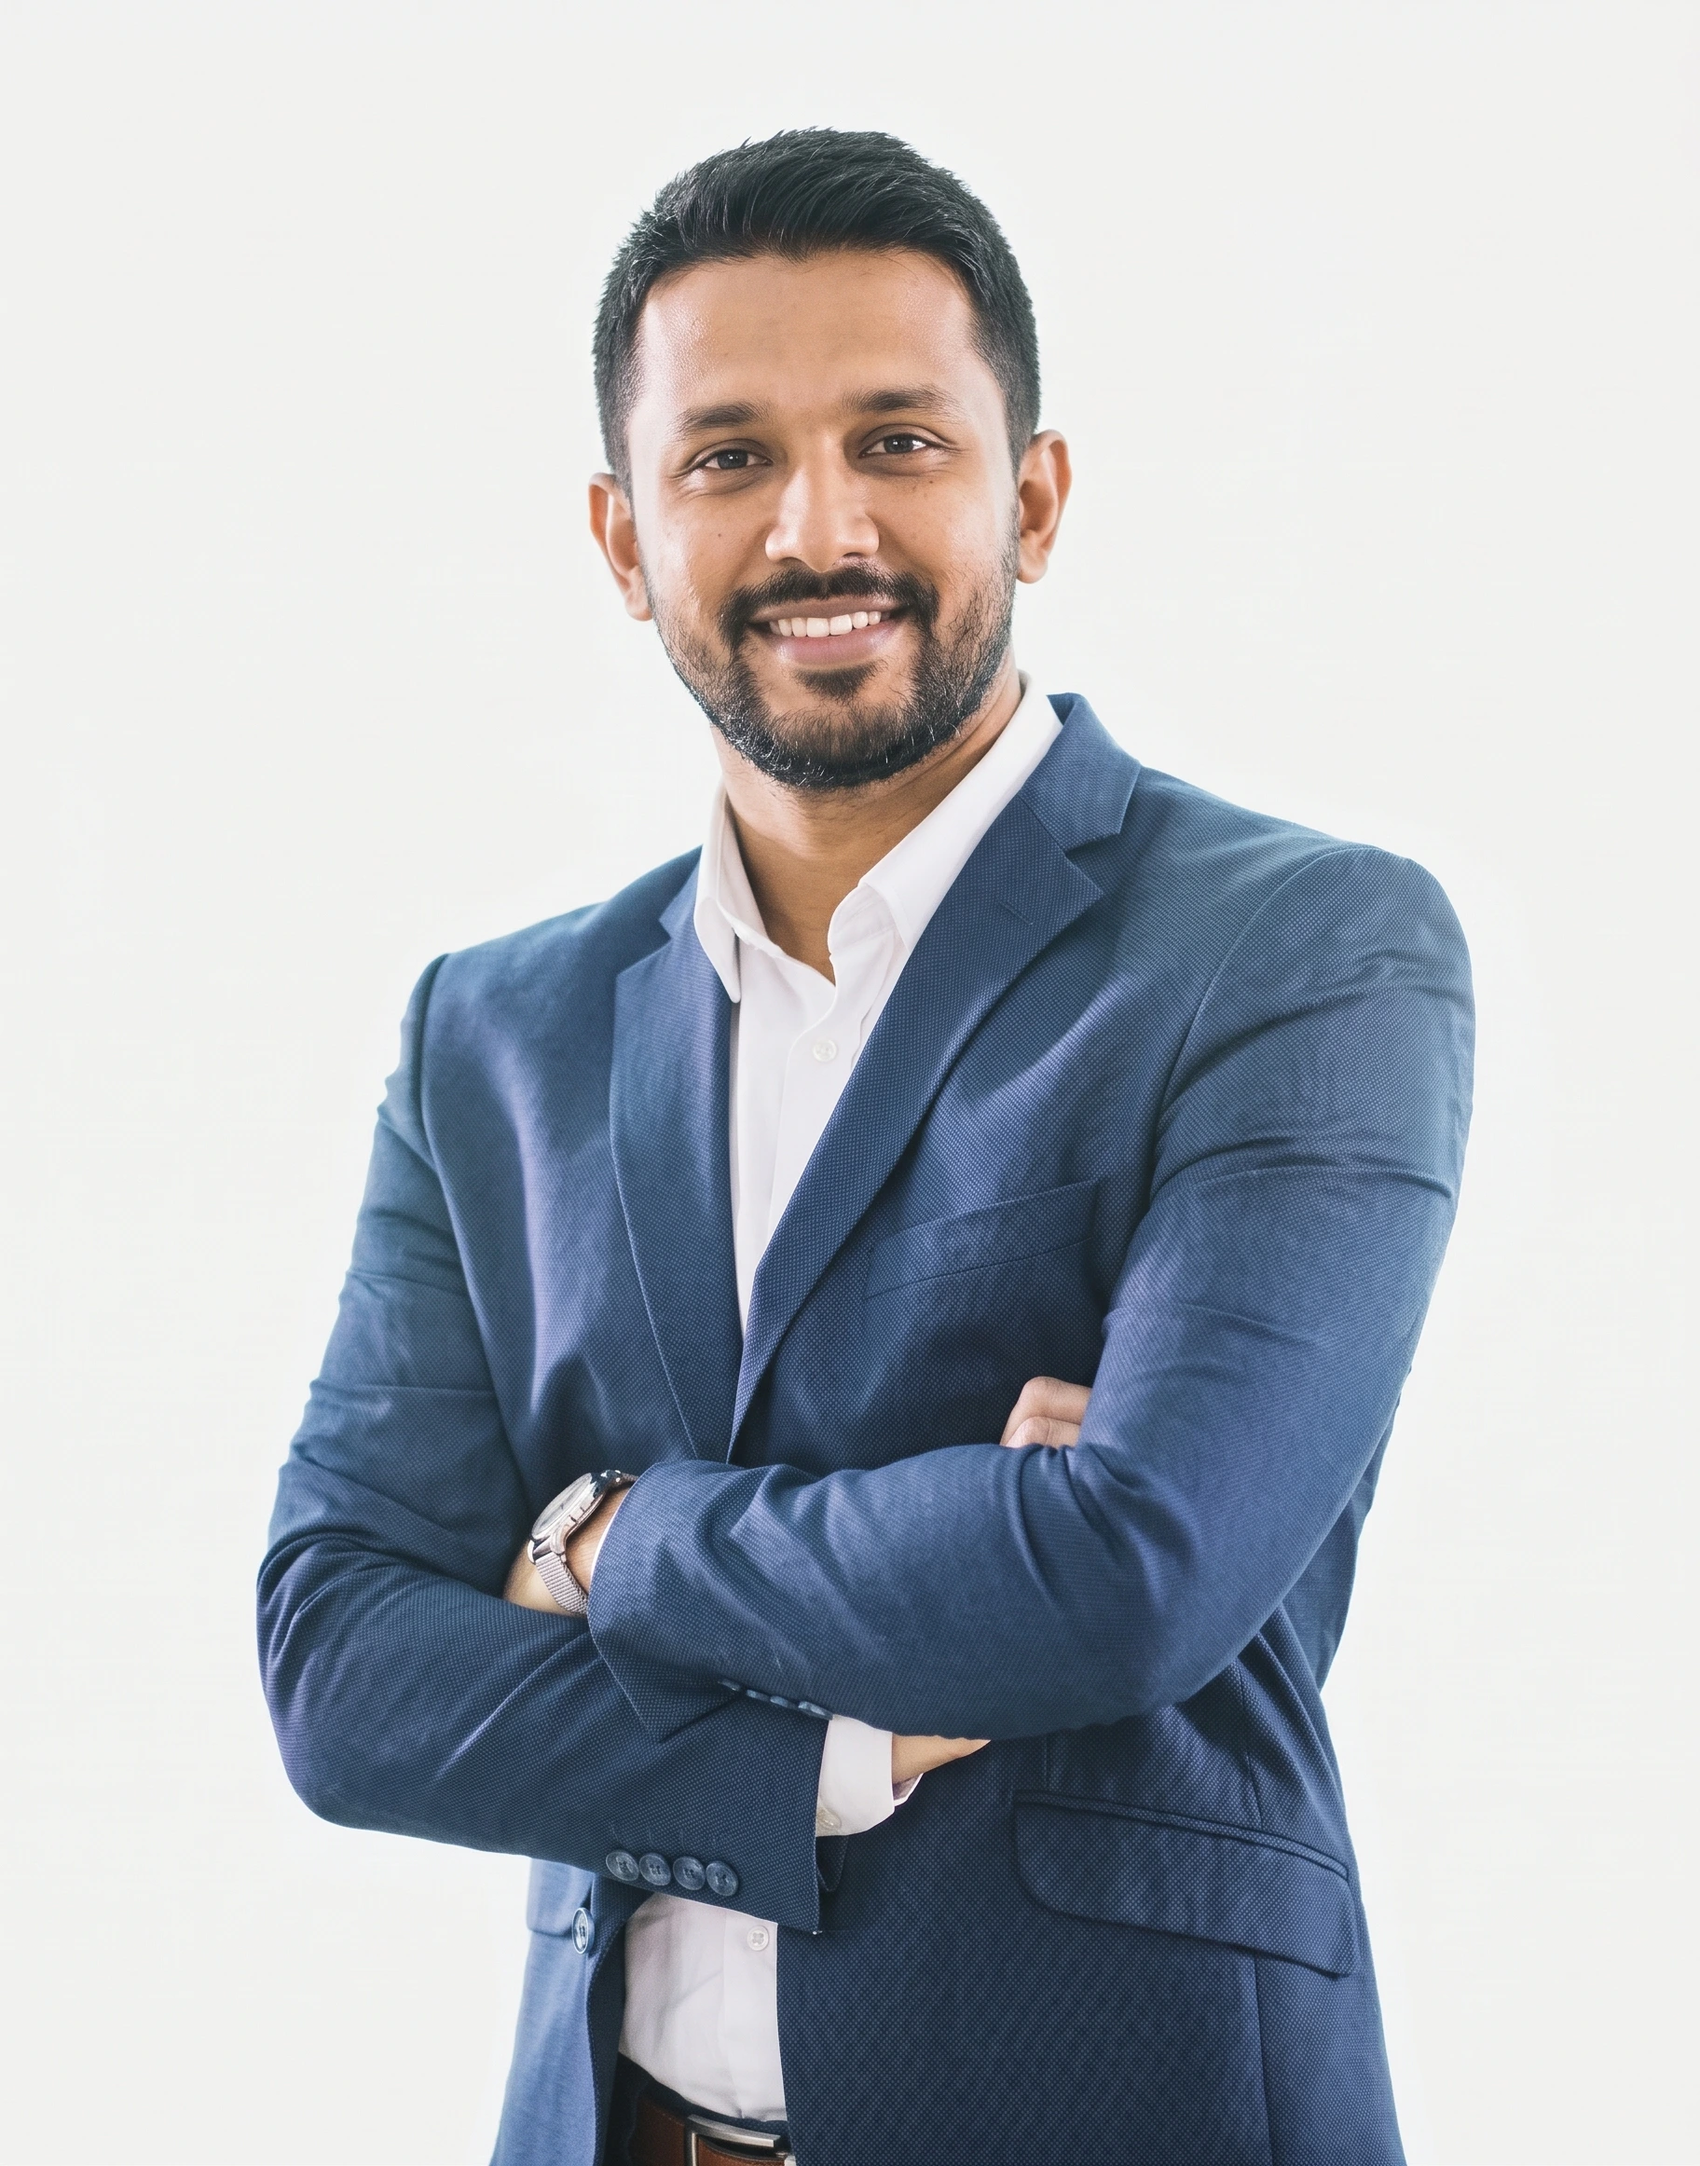
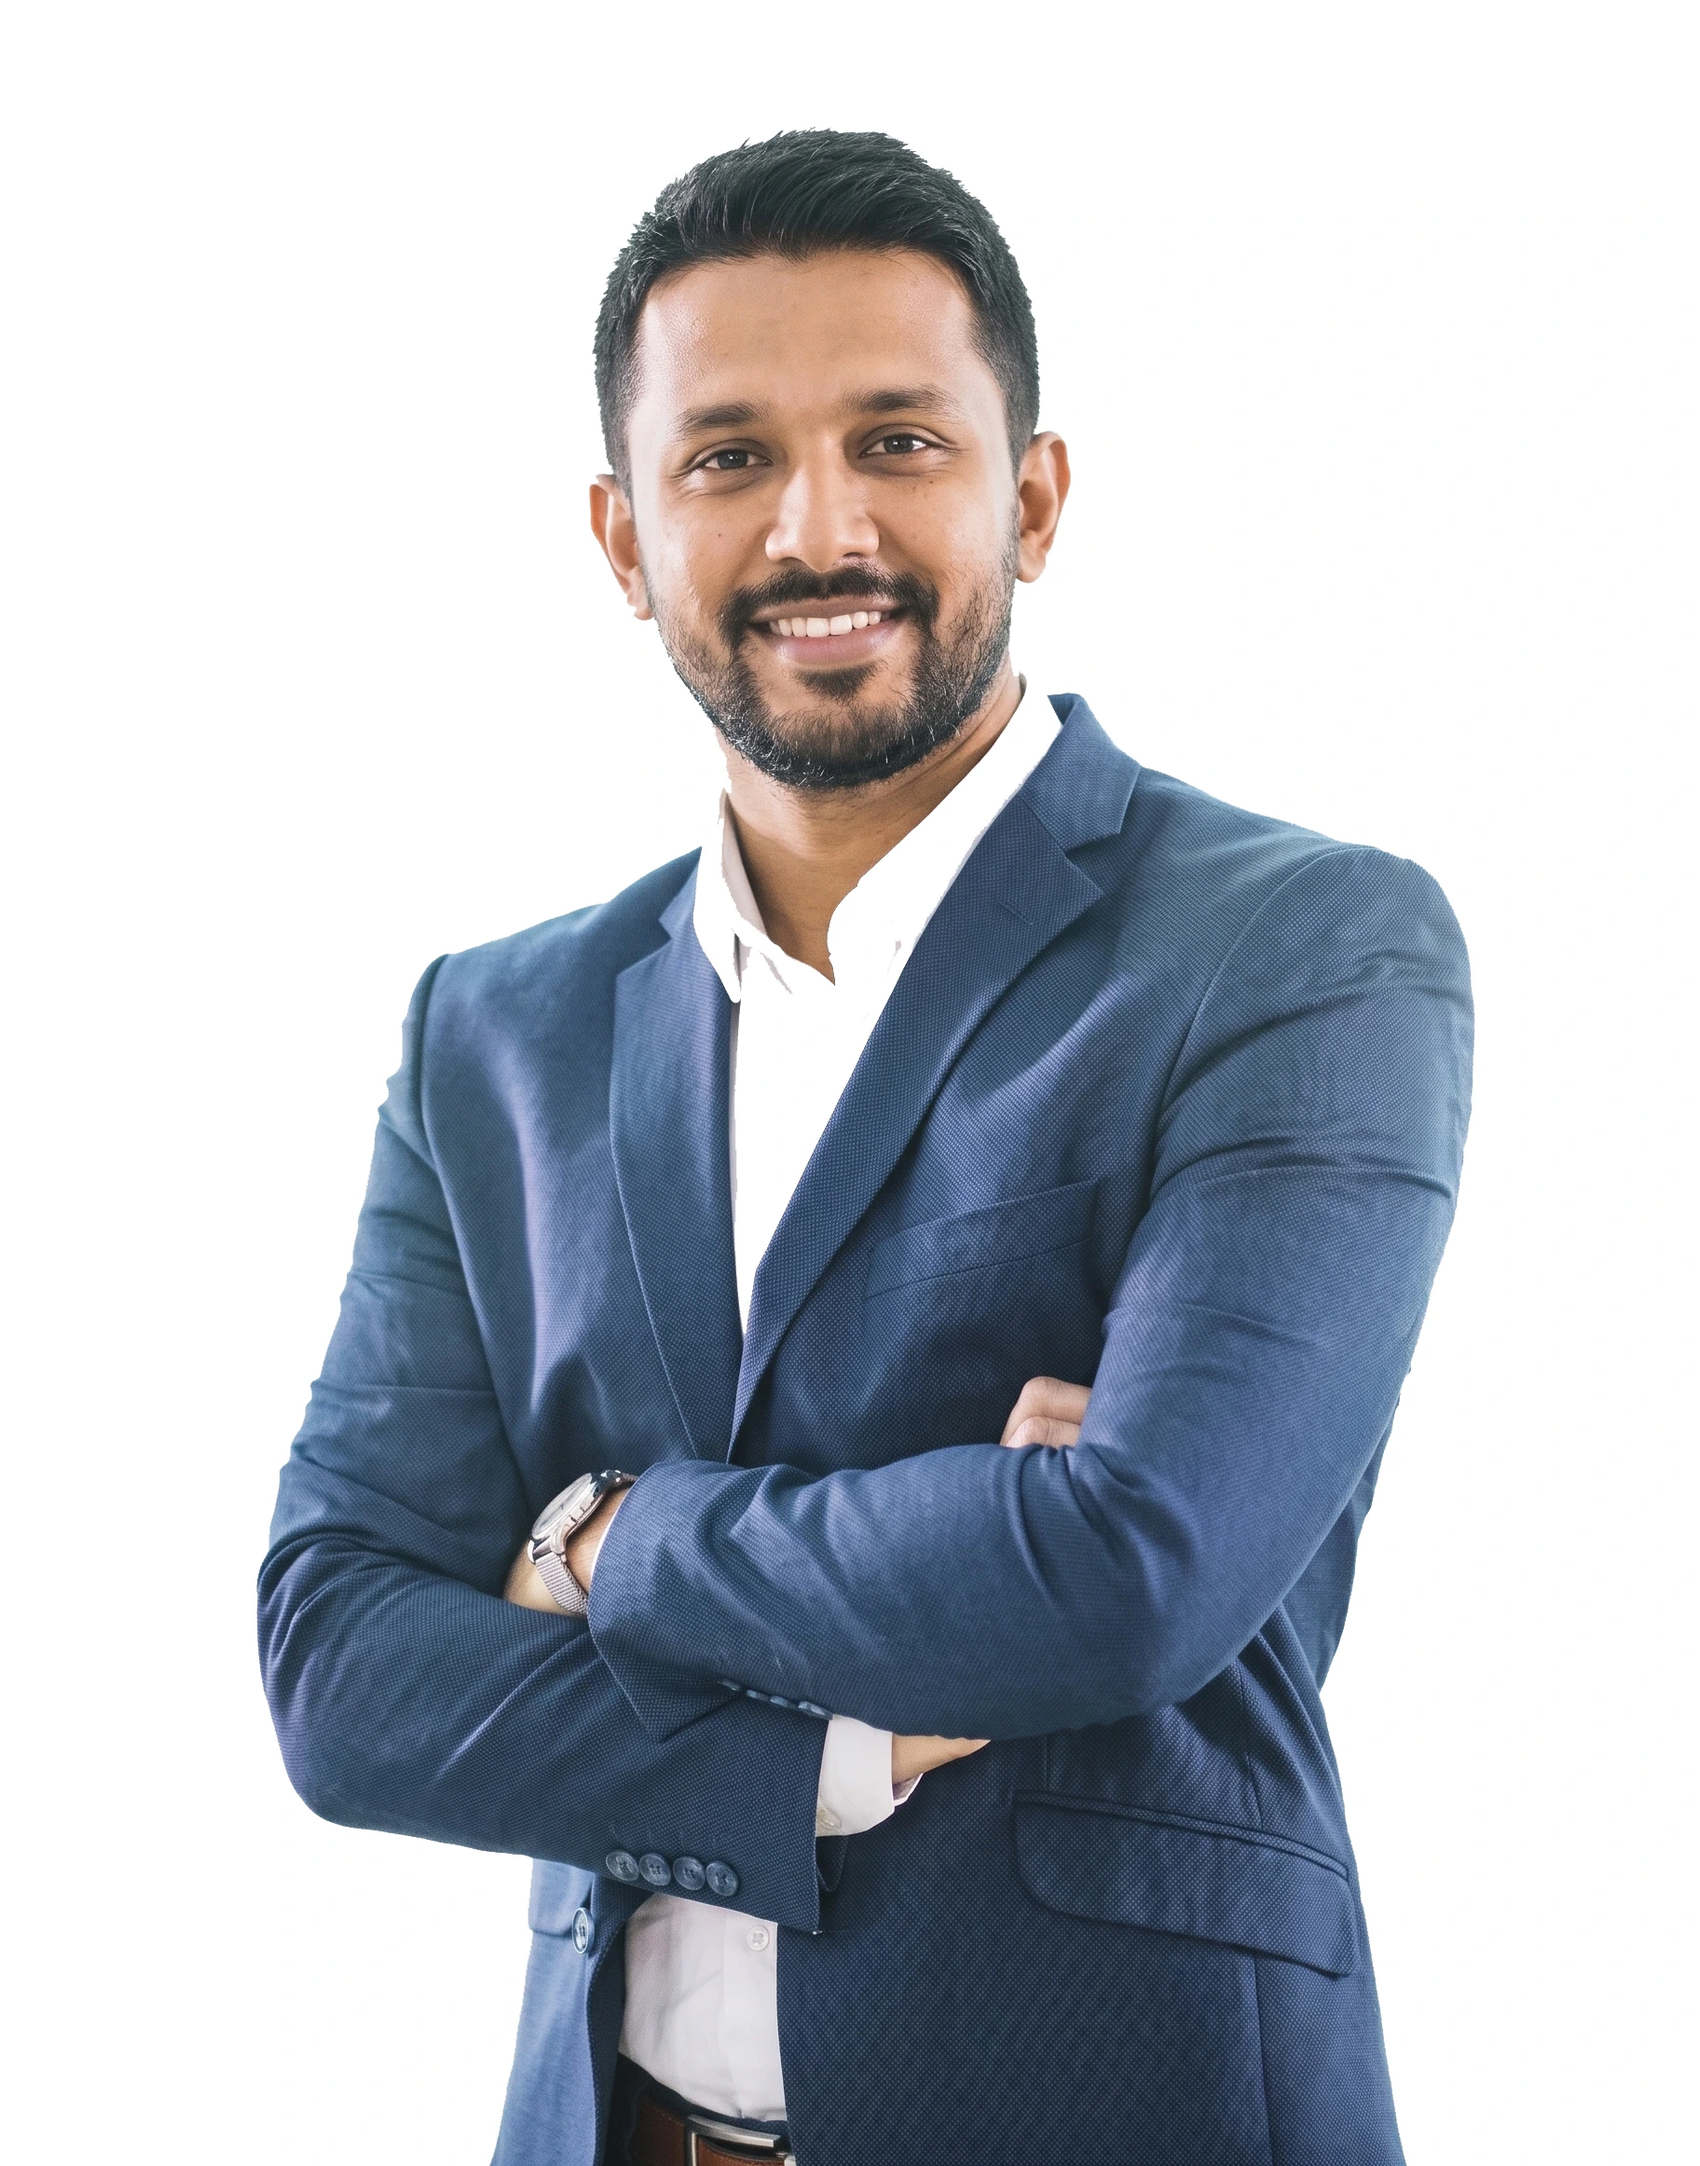
add missing styles

Changed region(s): [[0.4062, 0.3098, 0.625, 0.5886]]

diff --git a/assets/css/style.css b/assets/css/style.css
@@ -2657,18 +2657,22 @@ Breadcrumb Styles
   background-color: #fafafa;
   background-image: url(../images/bg/breadcrumb-bg.webp) no-repeat scroll center center;
   background: url(../images/bg/breadcrumb-bg.webp) no-repeat scroll center center;
-  background-size: 100%;
-  background-color: #a4dbe4;
+  background-size: cover;
   position: relative;
 }
 
 .feature-banner{
   background-image: url(../images/banner/feature-banner.webp) no-repeat scroll center center;
   background: url(../images/banner/feature-banner.webp) no-repeat scroll center center;
-  background-size: cover;
   background-size: contain;
     background-position: right;
     background-color: #97d6df !important;
+}
+
+@media screen and (max-width: 480px) {
+.feature-banner{
+background-size: cover;
+}
 }
 
 .services-banner{
@@ -4600,7 +4604,7 @@ About Area
 
   .about-area__image:not(.about-area__image--right) img,
   .about-area__image:not(.about-area__image2) img {
-    max-width: 100%;
+    max-width: 80%;
   }
 }
 
